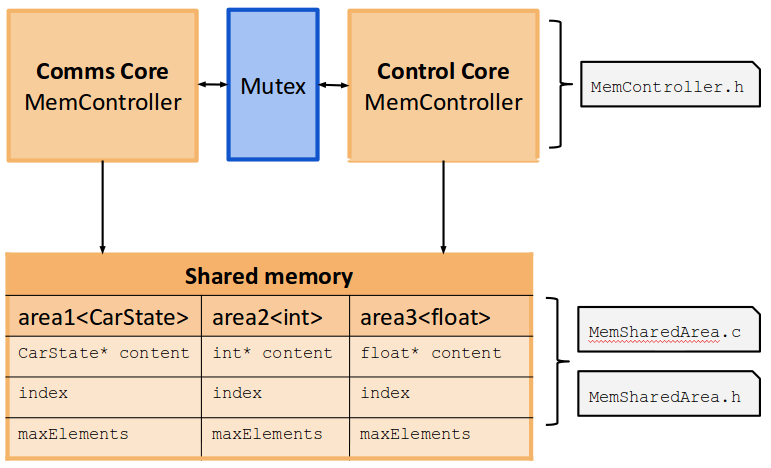
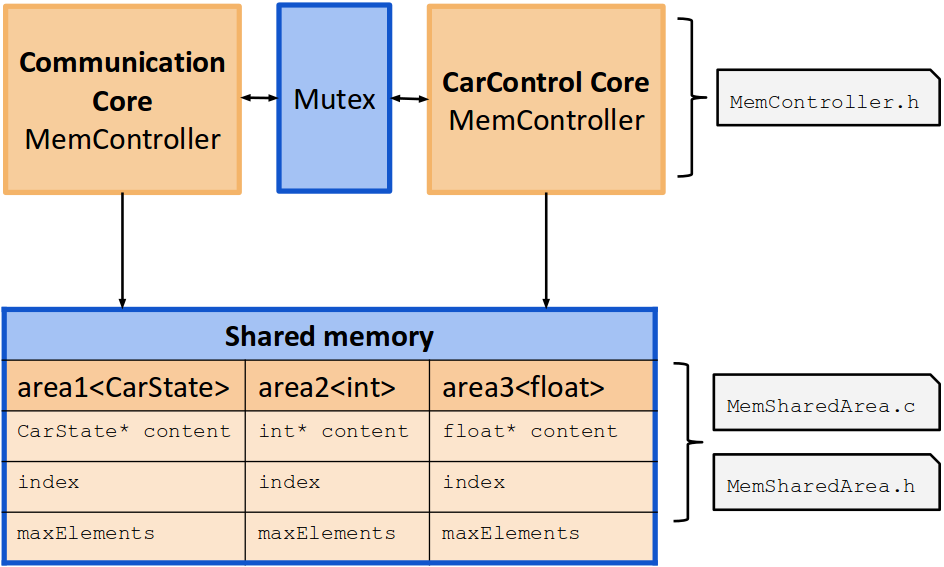
Fixes code listings - they now look good! Proofread MemCtrl, MemSharedArea, MotorCtrl, fixed the shared memory graphic

Changed region(s): [[0.0, 0.0, 1.0, 1.0]]

diff --git a/doc/Report/chapters/4_Software.tex b/doc/Report/chapters/4_Software.tex
@@ -4,57 +4,67 @@
 Paul -done
 
 \section{CarControl Core}
-The car control core is responsible for processing all the data that the communications core receives from other components, and calculating the correct reactions (motor controller signals) to that data. The control core cyclically accesses the current $CarState$ from the shared memory and performs all calculations on the data. The main loop can be broken down into four parts.
+The \textbf{CarControl Core} is responsible for processing all the data that the communications core receives from other components, and calculating the correct reactions (Motor Controller signals) to that data. 
+
+\subsection{Location}
+The CarControl Core software project resides in $software/Car2X\_carControl$; the $.sopcinfo$ file used to generate the board support package here: \\$hardware/nios\_system.sopcinfo$. The software runs on Core 1 of the system.
+
+\subsection{Program flow}
+The control core cyclically accesses the current $CarState$ from the shared memory and performs all calculations. The main loop can be broken down into four parts.
 
 \begin{enumerate}
-\item Get current $CarState$ from the shared memory (blocking)
+\item Get current $CarState$ from the shared memory (blocking).
 \item Check the operating mode, $state.reqOpMode$. If a new one has been requested, the transition is performed and set in $state.currOpMode$.
-\item Get the requested velocities state.reqVel and transform them based on the current operation mode. Write the calculated velocities for each motor into $state.MotorECU\_State$.
-\item Write the changed CarState object back into the shared memory and release the mutex.
+\item Get the requested velocities $state.reqVel$ and transform them into goal velocities for each wheel. These are then written into $state.MotorECU\_State$.
+\item Write the changed $CarState$ object back into the shared memory and release the mutex.
 \end{enumerate}
 
 \subsection{Operating modes}
-A state machine is used to restrict or alter the car's behaviour, based on the current *operating mode* that the car is in. Generally, an operating mode places restrictions on what actors can control the car at any given time, and the velocity at which the car may move. Some operating modes are only available internally, others can be accessed by the user. The available states are:
+A state machine is used to restrict or alter the car's behaviour, based on the current \textbf{Operating mode} of the car. Broadly speaking, an Operating Mode places restrictions on what actors can control the car at any given time, and the velocity at which the car may move. Some Operating Modes are used internally, while others can be requested by the user.
 
-\textbf{PreOperational} Initial mode, used internally during the startup phase. Velocity is restricted to 0 on all motors.
-
-\textbf{Idle} This operating mode is automatically transitioned to upon successful communication with all four motor control ECUs. Velocity is restricted to 0 on all motors.
-
-\textbf{ManualDrive} A $RemoteControlRequest$ C2X message will transition the car into this mode. Subsequently, the car may only be controlled from the IP address that sent the aforementioned message. The velocity is restricted to $CarState.h:OPMODE\_MANUDRIVE\_MAXSPEED$.
-
-\textbf{AutomaticDrive} A $AutoControlRequest$ C2X message will transition the car into this mode. Subsequently, the car may only be controlled from the IP address that sent the aforementioned message. The velocity is restricted to $CarState.h:OPMODE\_AUTODRIVE\_MAXSPEED$.
-
-\textbf{EmergencyStop} Triggered by an $EmergencyStop$ C2X message, this operation mode will immediately set all motor velocities to 0, effectively executing an emergency stop. To exit this operating mode, either a RemoteControlRequest or AutoControlRequest must be sent to transition to the respective operating mode.
+\begin{description} 
+\item[PreOperational] Initial mode, used internally during the startup phase. The velocity is restricted to $0$ on all motors.
+\item[Idle] This operating mode is automatically transitioned to upon successful communication with all four Motor Control ECUs. Velocity is restricted to $0$ on all motors.
+\item[AutomaticDrive] This mode is to be used when the car drives autonomously. The car may only be controlled from the IP address that is registered as the autonomous driving component (the image processing component in our case). The velocity is restricted to $200mm/s$.
+\item[ManualDrive] A $RemoteControlMessage$ C2X message will transition the car into this mode. Subsequently, the car may only be controlled from the IP address that sent the aforementioned message. The velocity is restricted to $400mm/s$.
+\item[EmergencyStop] Triggered by an $EmergencyBrakeMessage$, this operation mode will immediately set all motor velocities to $0$, effectively executing an emergency stop. To exit this operating mode, either a $RemoteControlMessage$ must be sent.
+\end{description}
 
 \subsection{Motor velocity calculation}
-The motor velocity calculations are relatively straightforward. Each operating mode has a maximum velocity that may be requested. Any velocities above this limit are capped. Equation \ref{carcontrol:vel_calculation} shows the formula that is used.
+The motor velocity calculations are relatively straightforward. Each operating mode has a maximum velocity that may be requested. Any velocities above this limit are scaled down to the limit. Equations \eqref{carcontrol:avel_calc} \eqref{carcontrol:vel_calc} show how the scaling is performed.
 
-\label{carcontrol:vel_calculation}
 \begin{equation}
+\label{carcontrol:avel_calc}
+v_{limit} = \frac{1}{4} \sum_{i=1}^{4} v_i 
+\end{equation}
+
+\begin{equation}
+\label{carcontrol:vel_calc}
 v_{i} = 
-\begin{cases} 
-r_{i} \mbox{if } r_{avg} \leq v_{limit} \\
-\frac{v_{limit}}{r_{avg}} * r_{i} \mbox{if } r_{avg} \ge v_{limit} \\
+\begin{cases}
+r_{i} & \mbox{if } r_{avg} \leq v_{limit} \\
+v_{limit}/r_{avg} * r_{i} & \mbox{if } r_{avg} > v_{limit} \\
 \end{cases}
 \end{equation}
 
 Since the velocities are transmitted as signed 16bit integer values, integer arithmetic is used to calculate the goal velocity, at a precision of $0.01mm/s$.
 
 \section{Shared memory}
-The shared memory module is responsible for ensuring the safe exchange of data between the communication and the car control cores. On the hardware level, the sharedmemory and mutex building blocks provide the necessary foundations that the \textbf{$MemController$} class leverages. Figure \ref{sharedmem:pic_overview} shows a coneptual representation of the shared memory and its components in action.
+The \textbf{Shared Memory Module} is responsible for ensuring the safe exchange of data between the Communication and the CarControl cores. On the hardware level, the \textbf{Shared Memory} and \textbf{Hardware Mutex} building blocks provide the necessary foundations that the \textbf{$MemController$} class leverages. Figure \ref{sharedmem:pic_overview} shows a conceptual representation of the Shared Memory Module and its components in action.
 
 \begin{figure}[h]\label{sharedmem:pic_overview}
-  \caption{The shared memory setup}
+  \caption{The shared memory setup. The Hardware components are shaded in blue, the components of the Shared Memory Software Module are shaded orange.}
   \centering
-    \includegraphics[width=0.8\textwidth]{figures/shared_memory.png}
+    \includegraphics[width=1.0\textwidth]{figures/shared_memory.png}
 \end{figure}
 
-\subsection{Shared memory Areas}
-The $MemSharedArea$ struct (see \ref{sharedmem:code_memsharedarea}) provides a container for managing data in the shared memory. The main goal of the shared memory is to facilitate data exchange between multiple threads/cores, and thus the MemSharedArea is essentially a buffer. 
+\subsection{Location}
+The $MemController$ Class resides in $software/shared\_files/MemController.h$. The $MemSharedArea$ is declared in $software/shared\_files/MemSharedArea.h$, with the variable allocation occuring in $MemSharedArea.cpp$.
 
-The various areas are declared in $MemSharedArea.c$. Here, the containers are defined and initialised to their default values. The altera keywords $\_\_attribute\_\_ ((section (".shared\_memory")))$ instruct the linker to place these variables in the hardware component titled $.shared\_memory$. Note that it is necessary to define both the $MemSharedArea$ container, and the array where the actual content will be stored.
+\subsection{Shared Memory Areas}
+The \textbf{$MemSharedArea$} struct (see \ref{sharedmem:code_memsharedarea}) provides a container for managing data in the shared memory. The main goal of the shared memory is to facilitate data exchange between multiple threads/cores.
 
-\begin{lstlisting}[label=sharedmem:code_memsharedarea caption={The $MemSharedArea$ structure, $software/shared\_files/MemSharedArea.h$}]
+\begin{lstlisting}[language=C++, label=sharedmem:code_memsharedarea, caption={$MemSharedArea$ structure, the container for shared data. Code found at: $software/ shared\_files/ MemSharedArea.h$}] 
 template<typename T>
 struct MemSharedArea {
 	alt_u32 maxNumElements_u32;
@@ -64,8 +74,13 @@ struct MemSharedArea {
 };
 \end{lstlisting}
 
+All containers are declared in $MemSharedArea.c$. Here, the containers are defined and initialised to their default values. In the following snipped, Altera directives are used to instruct the linker to place the variable $AreaCarStateBuffer$ into the hardware memory component titled $.shared\_memory$:
+\begin{lstlisting}
+CarState AreaCarStateBuffer[BUFFERSIZE_CARSTATE] __attribute__ ((section (".shared_memory")));
+\end{lstlisting}
+ Note that it is necessary to define both the $MemSharedArea$ container, and the array where the actual content will be stored.
 
-Since the structure requires a template argument, any data structure may be stored within the $MemSharedArea$ containers, as long as there is enough space.
+Since the $MemSharedArea$ structure accepts a template argument, any data structure may be stored within the $MemSharedArea$ containers, as long as it can be serialised and there is enough space in memory.
 
 \subsection{Memory controller}
 The MemController class provides an interface to access these areas in a safe and ordered fashion. The shared memory area array member is treated as a ring buffer, to allow for a historical retrieval of a certain information stream. 
@@ -76,18 +91,22 @@ MemController<T>(MemSharedArea<T> * area_p);
 \end{lstlisting} 
 This creates a MemController object that provides access to the shared memory area $area\_p$. One memory controller is always responsible for just one memory area. Note that the template argument for both the $MemController$ and the $MemSharedArea$ parameter must be the same. 
 
-Currently, there is only one mutex available at the hardware level, so simultaneous access to different shared memory containers is impossible, though it would be safe.
+Currently, there is only one mutex available at the hardware level, so simultaneous access to different shared memory containers is impossible, though it would be safe. A shortened version of the API is shown in snipped \ref{memoryctrl:code_api}.
 
-Here is a quick overview of the API:
-
-\begin{lstlisting}
-T MemController::get();       // retrieves the lastest element from the shared memory
-T MemController::get(bool);   // retrieves the latest element and keeps the mutex
-void MemController::clear();  // deletes all data from the shared memory
-void MemController::push(T);  // stores the element T in the memory area
+\begin{lstlisting}[caption={The basic $MemController$ API},label={memoryctrl:code_api}]
+// retrieves the newest element from shared memory
+T MemController::get();
+// retrieves the latest element and keeps the mutex
+T MemController::get(bool blocking);   
+// deletes all data from the shared memory
+void MemController::clear();  
+// stores the element T in the memory area
+void MemController::push(T element);  
 \end{lstlisting}
 
-One very important consideration to make when using a $MemController$ object is the mutex. Most of the mutex management is abstracted away, with it being automatically locked/unlocked as required. It is sometimes necessary to retrieve an element from shared memory, make some changes to it and write it back into shared memory, while ensuring that no new elements are written to the buffer. To facilitate this, there is a $get(bool)$ API function available. When the first parameter is $true$, the mutex will not be released once the element has been retrieved. The core which executed the function will retain mutex ownership until a call to $push()$ is made.
+When using a $MemController$ object, be mindful of the mutex. Most of the mutex management is abstracted away, with it being automatically locked/unlocked as required. However, it is sometimes necessary to retrieve an element from shared memory, make some changes to it and write it back into shared memory, while ensuring that no new elements are written to the buffer in the meantime. 
+
+To do so, use the \lstinline!T MemController::get(bool blocking);! API function. When the parameter is $true$, the mutex will not be released once the element has been retrieved. The core which executed the function will retain mutex ownership until a call to \lstinline!void MemController::push()! is made.
 
 \subsection{Challenges and improvements}
 The main challenge of designing the shared memory module primarily lay in the generic design of the data representation in memory and of the $MemController$ class, providing a simple yet powerful framework for others to use. Any serialisable data can be transmitted between threads or physical cores with the current implementation. The API is simple and straightforward to use.
@@ -95,16 +114,17 @@ The main challenge of designing the shared memory module primarily lay in the ge
 To provide better synchronisation between threads accessing the same shared memory, it would be great if a timestamp/flag could be added to each element in the content buffer. This would ensure that each core knows how many new elements have been added since it last accessed the area and simplify the code when more than one core needs to both read and write to shared memory. One of the challenges with this approach is to synchronise time between the cores. A hardware component may be necessary to achieve this. Currently, the cores are synchronised using indices contained in the data structure written to the shared memory. 
 
 \section{Motor Controller}
-The motor controllers are aptly named. They control the motor velocities based on a control message received from the central ECU. Last semester's group (WS13/14) did the vast majority of the work on the motor controller code, all credit goes to them. Please see their documentation (found in the repository at $doc/group\_ws13\_14/documentation/documentation.pdf$). 
+The \textbf{Motor Controllers} are aptly named. They control the motor velocities based on a $MotorVelocityMessage$ sent by the central ECU. Last semester's group (WS13/14) did the vast majority of the work on the motor controller code, all credit goes to them. Please see their documentation (found in the repository at $doc/group\_ws13\_14/documentation/documentation.pdf$). 
 
 The following is a short overview of the motor controller, included for completeness' sake.
 
+\subsection{Location}
+The software project for the Motor Controllers resides in $software/ Car2X\_nanoMotorCtrl$. The hardware configuration is found here: $hardware/DE0\_Nano.sof$ with the corresponding $.sopcinfo$ file $hardware/DE0\_Nano\_SOPC\_20131216.sopcinfo$
+
 \subsection{Program flow}
-The motor controller software consists of two logical parts: communication and control. The communications part is responsible for sending message to and receiving messages from the central ECU. These messages include among others, the $WelcomeMessage$ (used during system startup) and the $MotorVelocityMessage$ (contains the desired velocity). The control part is essentially a PID controller that translates the requested motor velocity into PWM signals, and controls the actual velocity using the measurements from an encoder mounted on the motor.
+The Motor Controller software consists of two logical parts: communication and control. The communications part is responsible for sending message to and receiving messages from the central ECU. These messages include among others, the $WelcomeMessage$ (used during system startup) and the $MotorVelocityMessage$ (contains the desired velocity). The control part is essentially a PID controller that translates the requested motor velocity into PWM signals, and controls the actual velocity using the measurements from an encoder mounted on the motor. The prodedure is shown in snippet \ref{motor:code_mainloop}.
 
-Listing \ref{motor:code_mainloop} shows a pseudo-code representation of the motor controller program
-
-\begin{lstlisting}[label=motor:code_mainloop]
+\begin{lstlisting}[label=motor:code_mainloop,caption={The motor controller program in pseudo-code.}]
 int main {
   bool startup = false;
   bool newMsg = false;

diff --git a/doc/Report/main.tex b/doc/Report/main.tex
@@ -7,11 +7,38 @@
  \DeclareGraphicsExtensions{.jpg,.JPG,.png,.pdf,.eps}
  \graphicspath{{figures/}} 
 \usepackage[english]{babel}
+\usepackage{amsmath}
+\usepackage{amssymb}
 \usepackage{listings}
 \usepackage{color}
-\usepackage{amssymb}
 
-\lstset{language=C++}
+\definecolor{mygreen}{rgb}{0,0.6,0}
+\definecolor{mygray}{rgb}{0.5,0.5,0.5}
+\definecolor{mymauve}{rgb}{0.58,0,0.82}
+
+\lstset{ %
+  backgroundcolor=\color{white},   % choose the background color; you must add \usepackage{color} or \usepackage{xcolor}
+  breakatwhitespace=false,         % sets if automatic breaks should only happen at whitespace
+  breaklines=true,                 % sets automatic line breaking
+  captionpos=b,                    % sets the caption-position to bottom
+  commentstyle=\color{mygreen},    % comment style
+  deletekeywords={...},            % if you want to delete keywords from the given language
+  keepspaces=true,                 % keeps spaces in text, useful for keeping indentation of code (possibly needs columns=flexible)
+  keywordstyle=\color{blue},       % keyword style
+  language=C++,                    % the language of the code
+  morekeywords={*,...},            % if you want to add more keywords to the set
+  numbers=left,                    % where to put the line-numbers; possible values are (none, left, right)
+  numbersep=5pt,                   % how far the line-numbers are from the code
+  numberstyle=\color{mygray},      % the style that is used for the line-numbers
+  rulecolor=\color{black},         % if not set, the frame-color may be changed on line-breaks within not-black text (e.g. comments (green here))
+  showspaces=false,                % show spaces everywhere adding particular underscores; it overrides 'showstringspaces'
+  showstringspaces=false,          % underline spaces within strings only
+  showtabs=false,                  % show tabs within strings adding particular underscores
+  stepnumber=1,                    % the step between two line-numbers. If it's 1, each line will be numbered
+  stringstyle=\color{mymauve},     % string literal style
+  tabsize=2,                       % sets default tabsize to 2 spaces
+  title=\lstname                   % show the filename of files included with \lstinputlisting; also try caption instead of title
+}
 
 \input{components/info}
 

diff --git a/doc/Report/chapters/2_Concept.tex b/doc/Report/chapters/2_Concept.tex
@@ -1,12 +1,7 @@
 \chapter{Concept}
 
-\section{Overview}
-%% Johannes
-The project can be divided into three main parts. At the fundamental level, is the hardware (the motors, wheels, batteries, FPGA boards, switch, etc). These form the wide constraints on what may be done with the car.
-
-The next two parts are what was focused on this semester: the FPGA boards' hardware configuration and the software that runs on that hardware.
-
-
+%%\section{Overview}
+%% Johannes ist nix eingefallen
 \section{Hardware structure}
 Flo
 
